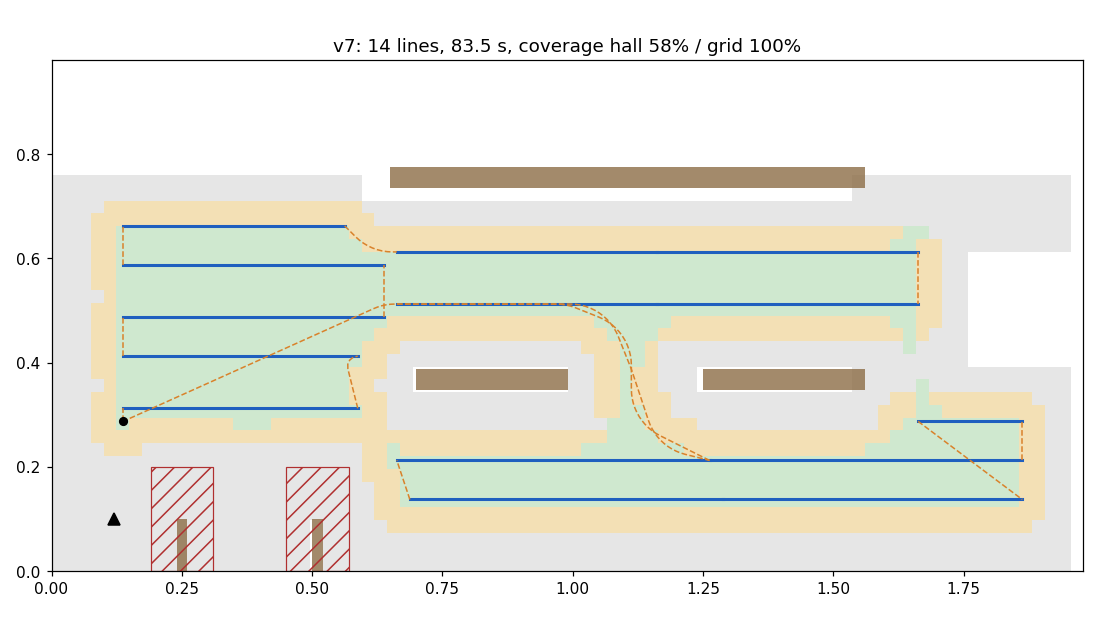
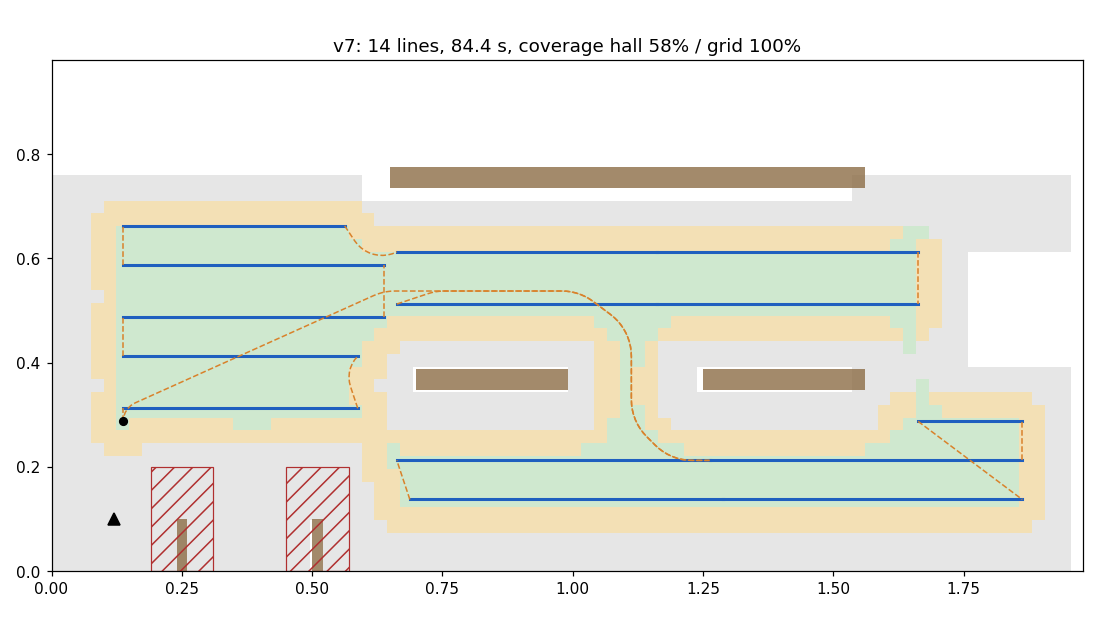
fix(cleaner): 이동 구간이 진열대 끝 옆을 지나칠 때 여유를 2 cm 더 둔다
- way_slack_m 0.02: 막힌 것에서 그만큼 더 떨어진 칸을 먼저 쓰고(A* 비용), 곧게 잇는 선분도 옆을 지나칠 때 그만큼 더 떨어진다
- 진열대 틈처럼 그럴 자리가 없는 곳은 빈칸 한 줄(x = 1.1125)을 따라 곧게 지난다
- v7 이동 길이 3.124 m → 3.233 m, 한 바퀴 83.5 s → 84.4 s. d2는 같다
- 시험: 틈을 지나는 길, 진열대 끝을 도는 길, 영역 순서(되돌아가지 않음), 나눈 조각 길이

diff --git a/pc/fleet_core/fleet_core/coverage.py b/pc/fleet_core/fleet_core/coverage.py
@@ -20,6 +20,8 @@ GRID_M = 0.025
 ROBOT_RADIUS_M = 0.083
 MARGIN_M = 0.01  # 다른 구역과 keepout_extra 경계에서 두는 여유
 SOLID_MARGIN_M = 0.03  # 벽과 진열대에서 두는 여유
+WAY_SLACK_M = 0.02  # 이동 구간이 막힌 것 옆을 지나칠 때 더 두는 여유
+NARROW_COST = 3.0  # 그 여유가 없는 칸으로 들어가는 걸음의 비용 배수
 MIN_LINE_M = 0.20  # 이보다 짧은 줄은 긋지 않는다
 MAX_LINE_M = 0.60  # 이보다 긴 줄은 같은 방향으로 이어지는 구간으로 나눈다
 LINE_SPACING_M = 0.10
@@ -42,6 +44,7 @@ class Params:
     robot_radius_m: float = ROBOT_RADIUS_M
     margin_m: float = MARGIN_M
     solid_margin_m: float = SOLID_MARGIN_M
+    way_slack_m: float = WAY_SLACK_M
     min_line_m: float = MIN_LINE_M
     max_line_m: float = MAX_LINE_M
     line_spacing_m: float = LINE_SPACING_M
@@ -149,6 +152,12 @@ class CleanGrid:
         for rect, need in self.blocked:
             free &= _rect_distance(rect, xs, ys) >= need - _EPS
         self.free = free
+        # 넓은 칸: 막힌 것에서 way_slack만큼 더 떨어진 빈칸. 이동 구간은 이 칸을 먼저 쓴다
+        self.way_slack = params.way_slack_m
+        wide = free.copy()
+        for rect, need in self.blocked:
+            wide &= _rect_distance(rect, xs, ys) >= need + self.way_slack - _EPS
+        self.wide = wide
         # 키우기 전 바닥: HALL 안이고 진열대 밖
         floor = hall & (wall > 0.0)
         for rect in shelves:
@@ -252,6 +261,15 @@ def path_clear(grid: CleanGrid, points: Sequence[Point]) -> bool:
                for a, b in pairwise(pts))
 
 
+def _passes_wide(grid: CleanGrid, a: Point, b: Point) -> bool:
+    """선분이 막힌 것 옆을 지나칠 때(두 끝점보다 가까워질 때)는 way_slack만큼 더 떨어져 있는가."""
+    for rect, need in grid.blocked:
+        near = _segment_rect(a, b, rect)
+        if near < min(need + grid.way_slack, _point_rect(a, rect), _point_rect(b, rect)) - _SAME_M:
+            return False
+    return True
+
+
 # ---- 격자 탐색: 8방향, 모서리 자르기 없음 ----
 _STEPS = [(1, 0), (-1, 0), (0, 1), (0, -1), (1, 1), (1, -1), (-1, 1), (-1, -1)]
 
@@ -285,7 +303,8 @@ def distances(free: np.ndarray, start: Cell) -> np.ndarray:
     return dist
 
 
-def astar(free: np.ndarray, start: Cell, goal: Cell) -> list[Cell]:
+def astar(free: np.ndarray, start: Cell, goal: Cell, wide: np.ndarray | None = None) -> list[Cell]:
+    """wide를 주면 넓지 않은 칸으로 들어가는 걸음이 NARROW_COST배 비싸다(그 칸뿐이면 그래도 간다)."""
     def guess(c: Cell) -> float:
         dx, dy = abs(c[0] - goal[0]), abs(c[1] - goal[1])
         return max(dx, dy) + (math.sqrt(2.0) - 1.0) * min(dx, dy)
@@ -303,6 +322,8 @@ def astar(free: np.ndarray, start: Cell, goal: Cell) -> list[Cell]:
         if g > best[cell]:
             continue
         for nxt, cost in _neighbours(free, cell):
+            if wide is not None and not wide[nxt[1], nxt[0]]:
+                cost *= NARROW_COST
             ng = g + cost
             if ng < best.get(nxt, math.inf) - _EPS:
                 best[nxt] = ng
@@ -313,6 +334,19 @@ def astar(free: np.ndarray, start: Cell, goal: Cell) -> list[Cell]:
 
 # ---- 이동 구간: A* 칸 경로를 보이는 점끼리 이은 꺾은선(둥글게 바꿔도 빈칸) ----
 # away: (점, 거리) 목록. 경로가 그 점들에서 그 거리 넘게 떨어진다
+def _straight(pts: list[Point]) -> list[Point]:
+    """같은 방향으로 한 직선 위에 놓인 가운데 점을 뺀다."""
+    out = [pts[0]]
+    for p, q in pairwise(pts[1:]):
+        a = out[-1]
+        ux, uy, vx, vy = p[0] - a[0], p[1] - a[1], q[0] - p[0], q[1] - p[1]
+        if abs(ux * vy - uy * vx) > _EPS or ux * vx + uy * vy <= 0.0:
+            out.append(p)
+    if len(pts) > 1:
+        out.append(pts[-1])
+    return out
+
+
 def _shorten(grid: CleanGrid, pts: list[Point], radius: float, away=()) -> list[Point]:
     def clear(points) -> bool:
         return path_clear(grid, points) and all(
@@ -322,11 +356,13 @@ def _shorten(grid: CleanGrid, pts: list[Point], radius: float, away=()) -> list[
     while i < len(pts) - 1:
         j = i + 1
         for k in range(len(pts) - 1, i + 1, -1):
-            if clear([pts[i], pts[k]]) and clear(rounded([*out, pts[k]], radius)):
+            if (clear([pts[i], pts[k]]) and _passes_wide(grid, pts[i], pts[k])
+                    and clear(rounded([*out, pts[k]], radius))):
                 j = k
                 break
         out.append(pts[j])
         i = j
+    out = _straight(out)
     if clear(rounded(out, radius)):
         return out
     return pts
@@ -334,12 +370,13 @@ def _shorten(grid: CleanGrid, pts: list[Point], radius: float, away=()) -> list[
 
 def transit(grid: CleanGrid, free: np.ndarray, a: Point, b: Point, radius: float,
             away=()) -> list[Point]:
+    wide = grid.wide
     if away:
         xs, ys = np.meshgrid(grid.xs, grid.ys)
         free = free.copy()
         for q, gap in away:
             free &= np.hypot(xs - q[0], ys - q[1]) > gap
-    cells = astar(free, grid.cell(a), grid.cell(b))
+    cells = astar(free, grid.cell(a), grid.cell(b), wide)
     pts = _dedup([a, *(grid.centre(c) for c in cells[1:-1]), b])
     return _shorten(grid, pts, radius, away)
 

diff --git a/pc/fleet_core/test/test_coverage.py b/pc/fleet_core/test/test_coverage.py
@@ -123,12 +123,14 @@ def test_regions_are_swept_in_the_order_the_map_lists_them():
     # 아래 통로를 위 통로보다 먼저 적으면 아래 통로부터 돈다(가까운 영역 순서가 아니다)
     site.clean_regions = (V7_REGIONS[0], V7_REGIONS[2], V7_REGIONS[1])
     plan = make_plan(site)
+    assert _region_order(plan) == sorted(_region_order(plan))
     assert list(dict.fromkeys(_region_order(plan))) == [0, 1, 2]
     first = {r: a[1] for (a, _, _), r in zip(plan.lines, _region_order(plan), strict=True)}
     assert first[1] < 0.3675 < first[2]
     # 집에서 먼 영역을 맨 앞에 적어도 그 영역부터 돈다
     site.clean_regions = (V7_REGIONS[1], V7_REGIONS[0], V7_REGIONS[2])
-    assert list(dict.fromkeys(_region_order(make_plan(site)))) == [0, 1, 2]
+    far = _region_order(make_plan(site))
+    assert far == sorted(far) and set(far) == {0, 1, 2}
 
 
 def test_floor_outside_every_region_rectangle_is_the_last_region():
@@ -195,8 +197,11 @@ def test_no_line_is_shorter_than_the_minimum(layout_plan):
 @pytest.mark.parametrize("longest", [0.225, 0.30, 0.375])
 def test_a_long_row_is_not_cut_into_pieces_shorter_than_the_minimum(longest):
     # 최대 길이로 나눈 조각이 최소 길이보다 짧아지면 덜 나눈다
-    plan = make_plan(load_fleet_map("v7"), Params(max_line_m=longest))
+    site = load_fleet_map("v7")
+    plan = make_plan(site, Params(max_line_m=longest))
     assert min(math.dist(a, b) for a, b, _ in plan.lines) >= plan.params.min_line_m - 1e-9
+    # 그래도 긴 줄은 나눈다
+    assert len(plan.lines) > len(make_plan(site, Params(max_line_m=0.0)).lines)
 
 
 def test_a_zero_minimum_brings_the_short_lines_back():
@@ -346,3 +351,66 @@ def test_rounded_matches_pode_fsm(points, radius):
 
 def test_turn_radius_matches_pode_fsm():
     assert Params().turn_radius_m == _load("params").FsmParams().turn_radius_m
+
+
+# ---- 이동 구간: 막힌 것 옆을 지나칠 때는 way_slack_m을 더 둔다(틈처럼 그럴 자리가 없으면 한가운데로) ----
+S_WEST, S_EAST, SHELF_A = (0.70, 0.3475, 0.99, 0.3875), (1.25, 0.3475, 1.56, 0.3875), (0.65, 0.735, 1.56, 0.775)
+
+
+def _rect_gap(rect, path):
+    return min(cov._segment_rect(a, b, rect) for a, b in zip(path, path[1:], strict=False))
+
+
+def _between_the_shelf_faces(path):
+    """경로를 5 mm마다 찍어 남쪽 진열대 두 면(y) 사이에 든 점의 x."""
+    out = []
+    for (ax, ay), (bx, by) in zip(path, path[1:], strict=False):
+        n = max(1, math.ceil(math.dist((ax, ay), (bx, by)) / 0.005))
+        for k in range(n + 1):
+            x, y = ax + (bx - ax) * k / n, ay + (by - ay) * k / n
+            if S_EAST[1] <= y <= S_EAST[3]:
+                out.append(x)
+    return out
+
+
+def _way(a, b, **changes):
+    """v7에서 a→b 이동 구간: (꺾은선, 둥글게 바꾼 경로)."""
+    params = Params(**changes)
+    grid = CleanGrid(load_fleet_map("v7"), params)
+    pts = cov.transit(grid, grid.free, a, b, params.turn_radius_m)
+    path = cov.rounded(pts, params.turn_radius_m)
+    assert cov.path_clear(grid, path)
+    return pts, path
+
+
+@pytest.mark.parametrize(("a", "b"), [((1.1375, 0.4625), (1.3125, 0.2125)),
+                                      ((1.3125, 0.2125), (1.0625, 0.5125)),
+                                      ((0.9125, 0.2125), (1.2125, 0.5125))])
+def test_a_way_through_the_shelf_gap_goes_down_its_middle(a, b):
+    _, path = _way(a, b)
+    # 틈에서 빈칸은 x = 1.1125 한 줄이다: 진열대 두 면 사이에서는 그 줄 위로만 지난다
+    inside = _between_the_shelf_faces(path)
+    assert inside and max(abs(x - 1.1125) for x in inside) <= 0.003
+
+
+@pytest.mark.parametrize(("a", "b", "shelf"), [
+    ((0.5375, 0.6625), (0.9125, 0.5875), SHELF_A),   # 서쪽 넓은 곳 위쪽에서 위 통로로
+    ((0.5625, 0.3375), (0.9125, 0.5375), S_WEST),    # 서쪽 넓은 곳 아래쪽에서 위 통로로
+    ((0.9125, 0.5375), (0.5625, 0.3375), S_WEST)])
+def test_a_way_round_a_shelf_end_keeps_the_extra_slack(a, b, shelf):
+    wide = Params().robot_radius_m + Params().solid_margin_m + Params().way_slack_m
+    pts, _ = _way(a, b)
+    assert _rect_gap(shelf, pts) >= wide - 1e-6
+
+
+def test_without_the_slack_a_way_hugs_the_shelf_end():
+    _, path = _way((1.1375, 0.4625), (1.3125, 0.2125), way_slack_m=0.0)
+    assert max(abs(x - 1.1125) for x in _between_the_shelf_faces(path)) > 0.01
+    assert _rect_gap(S_EAST, path) < 0.12
+
+
+def test_every_transit_of_the_plan_keeps_clear_after_rounding(layout_plan):
+    _, plan = layout_plan
+    assert cov.rounded_problems(plan) == []
+    for _, _, pts in plan.transits:
+        assert cov.path_clear(plan.grid, cov.rounded(pts, plan.params.turn_radius_m))
